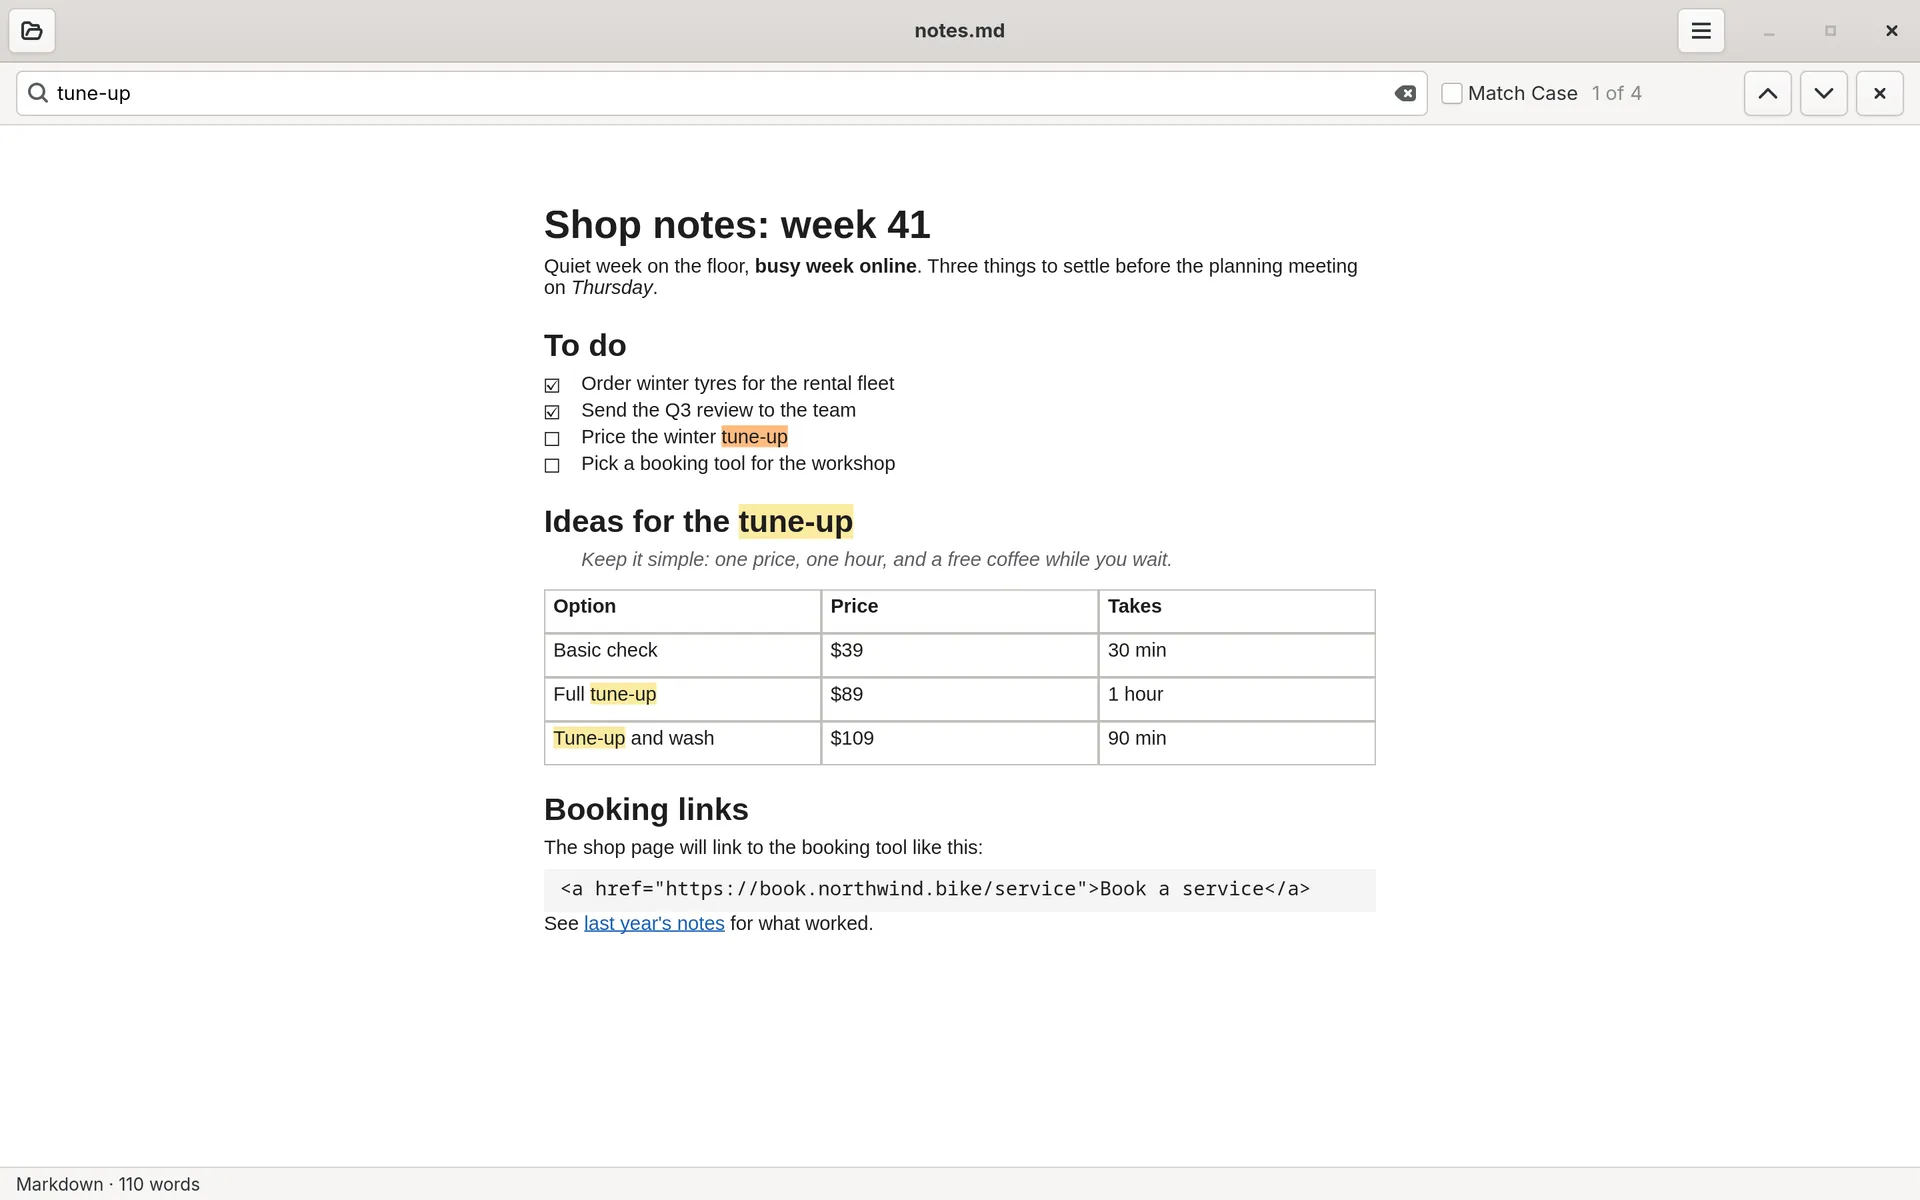
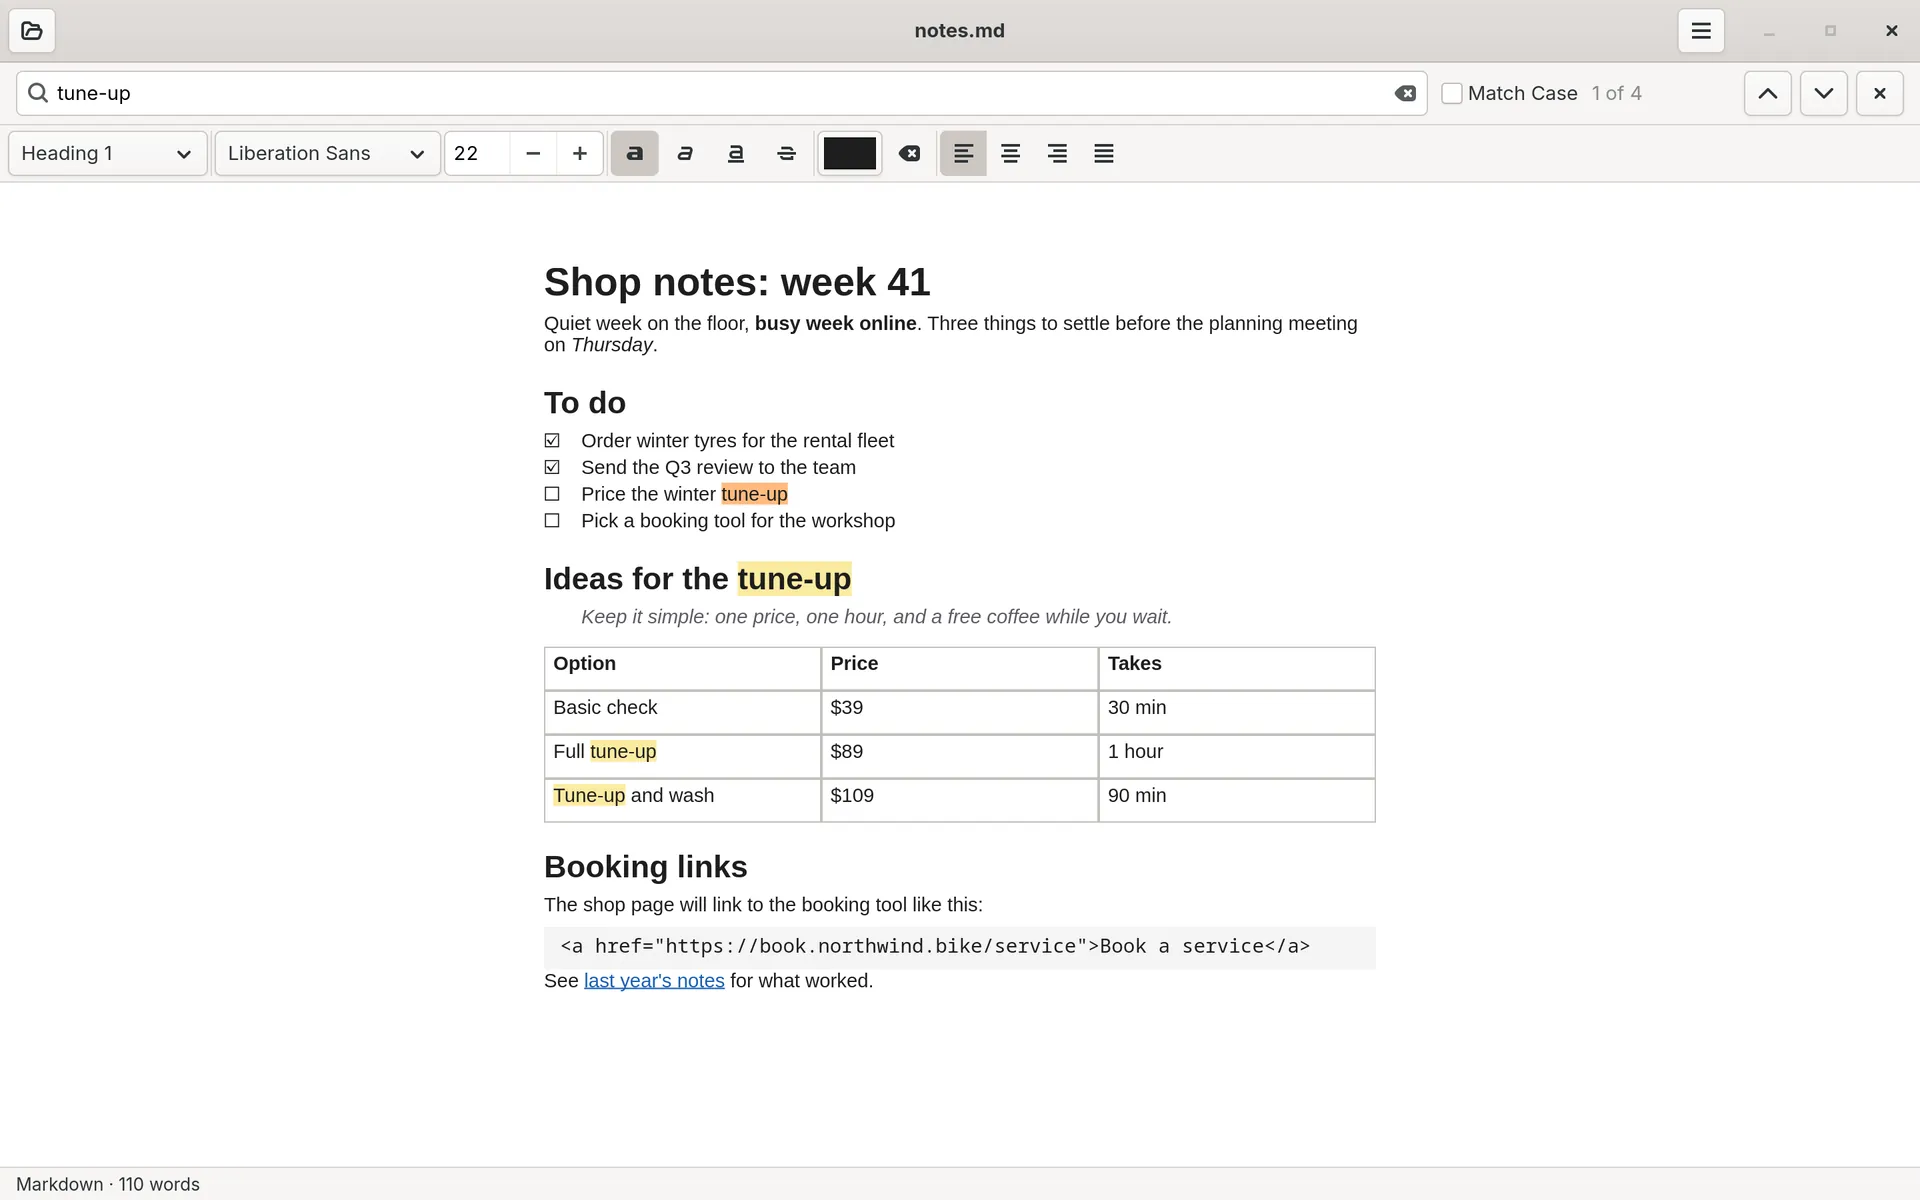
Suite page: gallery screenshots from Slate v0.3.0, with its fonts and format bar

Changed region(s): [[0.2812, 0.0925, 0.7188, 0.8325], [0.0, 0.1233, 0.25, 0.1542], [0.625, 0.7708, 0.6562, 0.8017]]

diff --git a/sites/cronkite/index.html b/sites/cronkite/index.html
@@ -142,8 +142,8 @@
         <figcaption><b>Brick</b>An Excel workbook with its sheets, cell styles, number formats, and formulas.</figcaption>
       </figure>
       <figure class="shot">
-        <a href="shots/slate-docx.webp"><img src="shots/slate-docx-960.webp" srcset="shots/slate-docx-960.webp 960w, shots/slate-docx-1920.webp 1920w" sizes="(max-width: 720px) 100vw, 470px" width="960" height="600" loading="lazy" alt="Slate showing a Word document with a title, headings, a bulleted list, and a bar chart on one continuous page."></a>
-        <figcaption><b>Slate</b>A Word document on one endless page: no page breaks, no margins to fight.</figcaption>
+        <a href="shots/slate-docx.webp"><img src="shots/slate-docx-960.webp" srcset="shots/slate-docx-960.webp 960w, shots/slate-docx-1920.webp 1920w" sizes="(max-width: 720px) 100vw, 470px" width="960" height="600" loading="lazy" alt="Slate showing a Word document in its own fonts, with a title, headings, a bulleted list, and a bar chart on one continuous page, and a format bar above it with the style, font, size, and alignment."></a>
+        <figcaption><b>Slate</b>A Word document in its own fonts and styles, on one endless page, with a slim format bar instead of a ribbon.</figcaption>
       </figure>
       <figure class="shot">
         <a href="shots/slate-find.webp"><img src="shots/slate-find-960.webp" srcset="shots/slate-find-960.webp 960w, shots/slate-find-1920.webp 1920w" sizes="(max-width: 720px) 100vw, 470px" width="960" height="600" loading="lazy" alt="Slate's find bar searching a Markdown file for tune-up, with four matches highlighted, including two in a table."></a>
